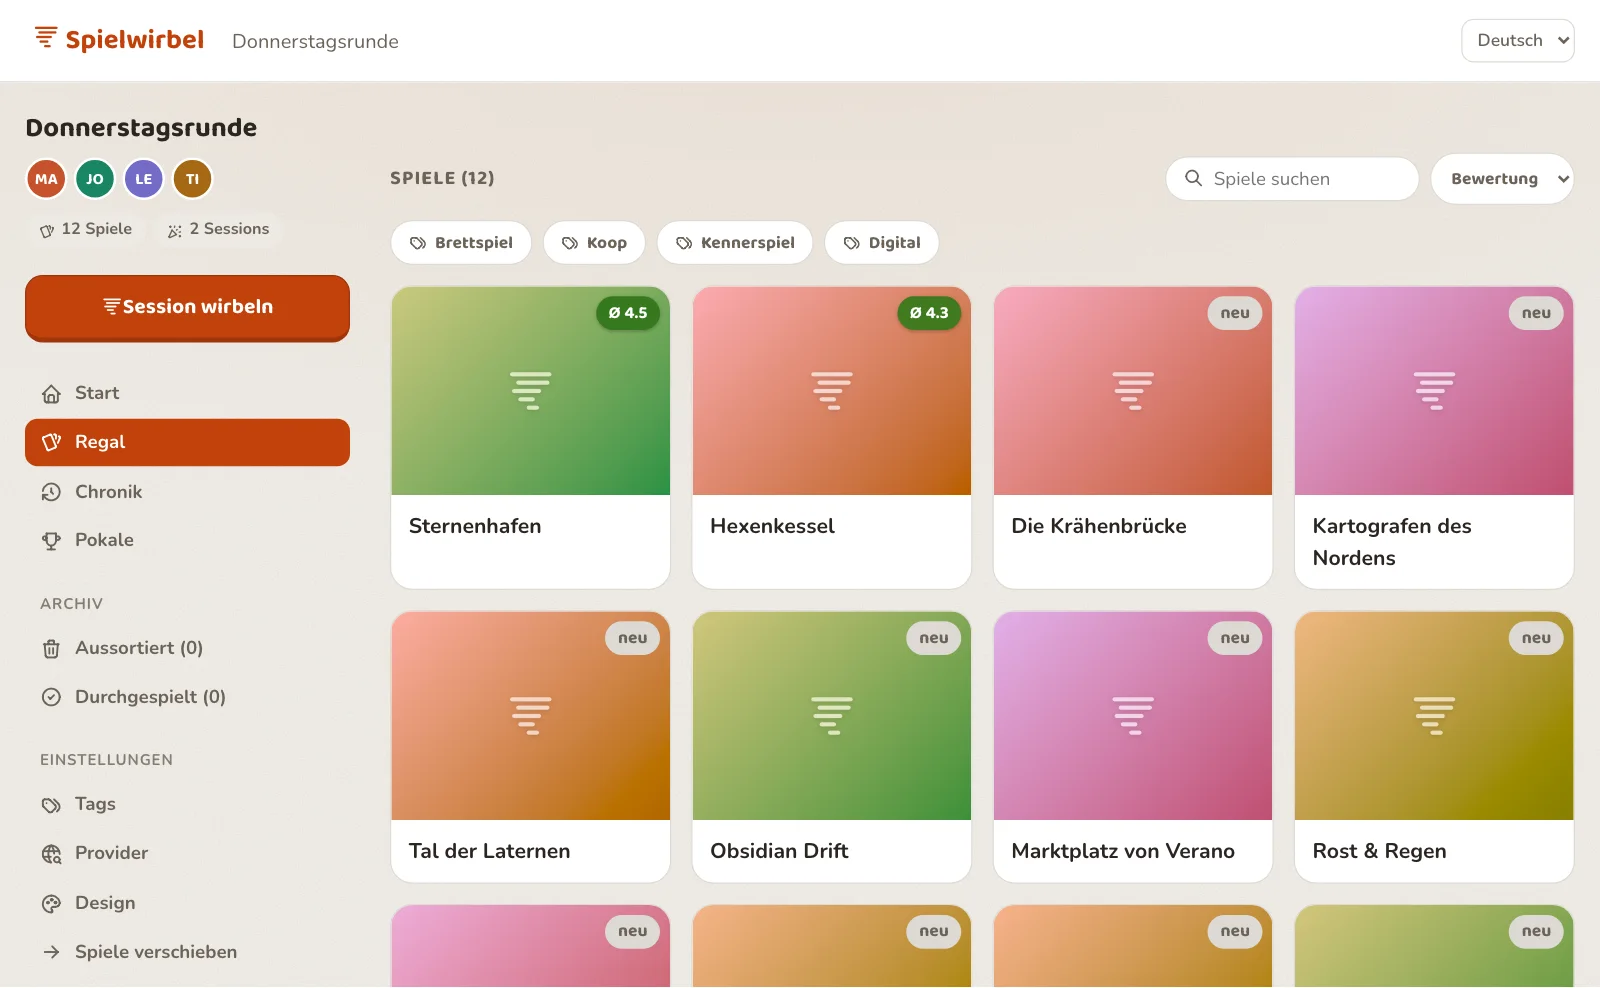
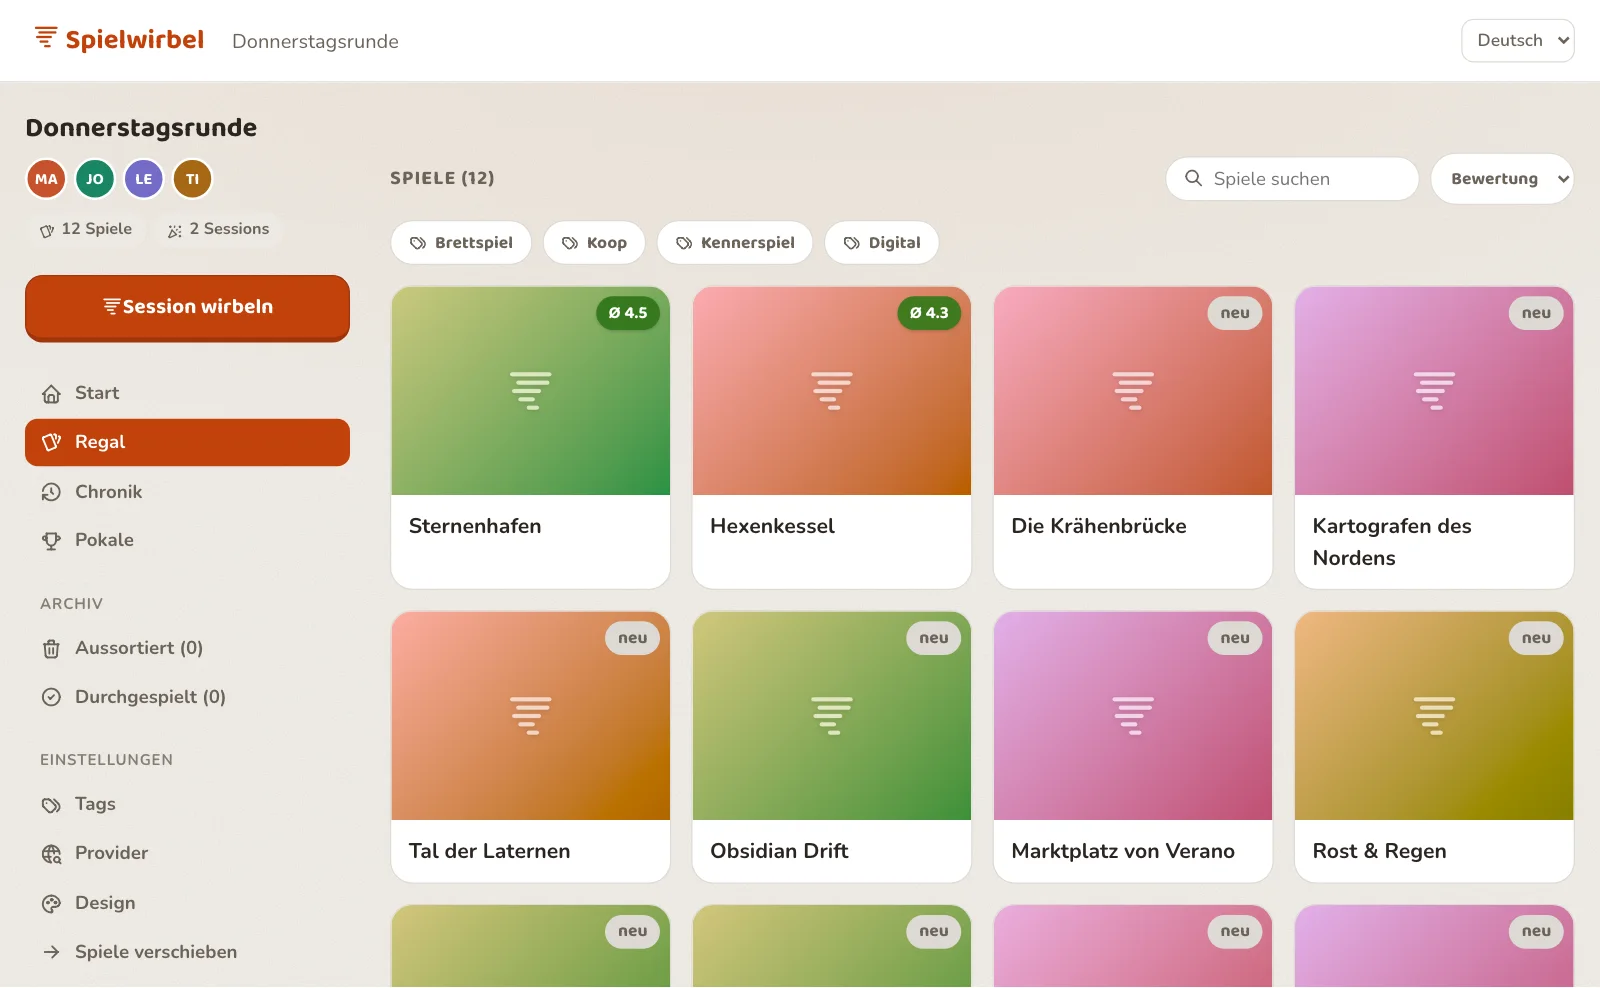
chore(landing): reshoot the German screenshots in the same run as the English
#457 scoped the German set out — it shipped in #438 and was correct. Operator
decision on review: recapture it anyway, so both locales come from one build
instead of drifting apart one PR at a time.

The reshoot is visually a no-op, and that is the useful result: with the German
seed the Regal geometry reproduces #438's measurement exactly (card row 2 ends at
707, rail at 781), which proves the 25px difference the English set measures is
the seed's wrapping titles rather than three days of app drift. Dimensions are
unchanged (1600x988 / 624x1248), so the view needed no edit; the German set is now
~121 KB against the 200 KB per-locale cap.

The rule gains that finding and the standing instruction to reshoot every locale
in one run, which is why the capture script keeps a seed for each of them rather
than only for the locale being added.

Changed region(s): [[0.2188, 0.9109, 1.0, 1.0]]

diff --git a/.claude/rules/landing-product-screenshots.md b/.claude/rules/landing-product-screenshots.md
@@ -80,12 +80,19 @@ screenshot on an English page:
   the screen being captured. Assert `document.documentElement.lang` in the same
   `Runtime.evaluate` that reads the geometry — it is the one cheap proof the
   capture is in the language you think.
-- **Translating the chrome is not translating the screenshot.** The English set
-  gets its **own seed pass** — English round name, English-reading member names,
-  invented English game titles — because an English page showing a round called
-  „Donnerstagsrunde" holding „Die Krähenbrücke" is exactly the half-translated
-  impression #457 removed. Keep both seeds the same *shape* (12 games, 4 members,
-  2 finished sessions, 4 tags) so the two sets show the same badges and counts.
+- **Translating the chrome is not translating the screenshot.** Each locale gets
+  its **own seed pass** — localized round name, member names and invented game
+  titles — because an English page showing a round called „Donnerstagsrunde"
+  holding „Die Krähenbrücke" is exactly the half-translated impression #457
+  removed. Keep every seed the same *shape* (12 games, 4 members, 2 finished
+  sessions, 4 tags) so all sets show the same badges and counts.
+
+**Reshoot every locale in one run.** #457 re-captured the German set alongside the
+new English one even though #438's assets were correct, so both come from the same
+build — otherwise the sets drift apart one PR at a time, and the next person
+cannot tell whether a difference between two locales is the app or the seed (§4).
+The seeds therefore live in the script for *all* locales, not just the one being
+added.
 
 The two finished sessions are **direct picks** (`POST …/sessions` with a
 `gameId`), not draws: a draw is random, so the set of rated games — and therefore
@@ -113,13 +120,18 @@ At 1280 CSS wide that gave (2026-07-26): rail ends **781**, card row 2 ends
 **790** — the only band where the whole rail fits *and* the cut lands inside
 artwork. Re-measure after any rail or card change; the number is not portable.
 
-Re-measured for #457 (2026-07-29) it had already moved: rail **781**, card row 2
-ends **682**, row 3 ends **916**. 790 still works — it clears the rail and lands
-~90px into row 3's artwork — but row 2's bottom shifted 25px in three days,
-purely because the English titles fit on one line where two German ones wrapped.
-**The band is narrower than it looks and it moves with the seed content**, so
-re-run the geometry probe for every set you shoot rather than reusing a number
-from the other locale.
+Re-measured for #457 (2026-07-30) the English set reads: rail **781**, card row 2
+ends **682**, row 3 ends **916** — 25px above the numbers above. 790 still works
+(it clears the rail and lands ~90px into row 3's artwork), and the shift is
+**seed content, not app drift**: reshooting the German set in the same run
+reproduced row 2 at exactly **707** again, because two German titles wrap to a
+second line where the English ones fit on one.
+
+That is the lesson — **the band moves with the content, not just with the code**,
+so re-run the probe for every set you shoot rather than reusing the other
+locale's number. It also makes the reshoot cheap insurance: capturing both
+locales in one run is the only way to know whether a difference between them is
+the app changing or the words changing.
 
 ## 5. Two widths, because one cannot work
 
